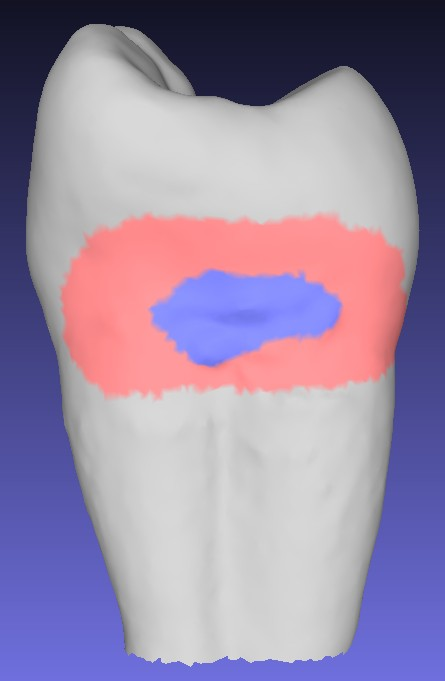
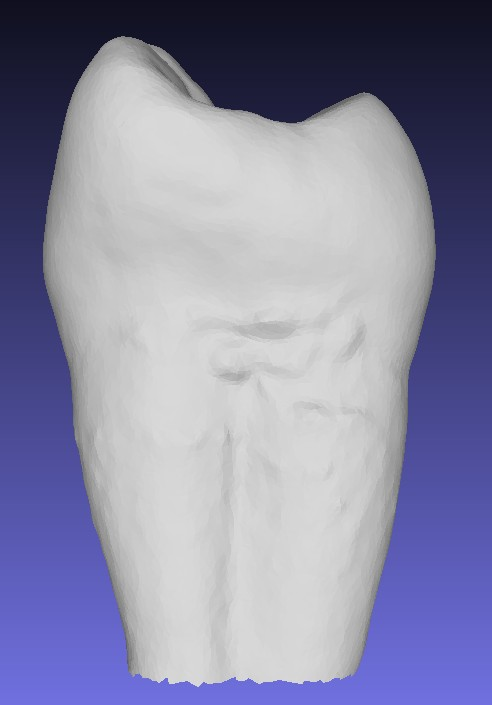
20180908 修改teeth_model顯示偵測區域

diff --git a/DentistDemo/MyForm.cpp b/DentistDemo/MyForm.cpp
@@ -166,6 +166,10 @@ System::Void DentistDemo::MyForm::MyForm_Load(System::Object^ sender, System::Ev
 	tmp_pic_meat = new std::vector<int>;
 	tmp_pic_disease = new std::vector<int>;
 	tmp_display_PC = new Teeth_PC;
+	tmp_Mask_Model = new cv::Mat/*(250, 141, CV_8UC3, cv::Scalar(0, 0, 0))*/;
+	tmp_tooth_M = new cv::Mat;
+	(*tmp_tooth_M) = cv::imread("./image1.jpg");
+	
 	
 	teeth_slice_idx = false;
 	meat_slice_idx = false;
@@ -539,6 +543,8 @@ void DentistDemo::MyForm::clear_PC_buffer() {
 		(*tmp_pic_meat).clear();
 	if ((*tmp_pic_disease).size() != 0);
 		(*tmp_pic_disease).clear();
+	if ((*tmp_Mask_Model).empty() == 0);
+		(*tmp_Mask_Model).release();
 }
 void DentistDemo::MyForm::Full_scan_Click(System::Object^  sender, System::EventArgs^  e) {
 	pin_ptr<int32_t> tmp_deviceID = &deviceID;
@@ -976,7 +982,9 @@ void DentistDemo::MyForm::classify_result() {
 	int tmpIdx;
 	float idt;
 	int control_pic_idx = this->control_pic->Value;
+	//cv::Mat tmp_Mask_Model = cv::Mat(250,141 , CV_8UC3, cv::Scalar(0, 0, 0));
 	Teeth_PC tmp_teeth_PC;
+	(*tmp_Mask_Model) = cv::Mat(250, 141, CV_8UC4, cv::Scalar(0, 0, 0,0));
 	for (int i = 0; i < (*Result_Image).size(); i++) {
 		cv::Mat tmp_img;
 		//cv::resize((*Result_Image)[i], tmp_img, cv::Size(1024, 250), 0, 0, CV_INTER_LINEAR);
@@ -995,6 +1003,10 @@ void DentistDemo::MyForm::classify_result() {
 		
 
 		for (int row = 0; row < tmp_result_img[i].rows; row++) {
+			bool disease_class = false;
+			bool meat_class = false;
+
+
 			for (int col = 50; col < tmp_result_img[i].cols; col++) {
 
 				
@@ -1041,6 +1053,7 @@ void DentistDemo::MyForm::classify_result() {
 				if (tmp_result_img[i].at<uchar>(row, col) == uchar(3)) {
 					Point_3D tmp_point_3D;
 
+					meat_class = true;
 					int tmp_num = i + 60;//x
 					int tmp_row = (row * 250) / 360;//y
 					int tmp_col = (col * 1024) / 480;//z
@@ -1077,6 +1090,7 @@ void DentistDemo::MyForm::classify_result() {
 				if (tmp_result_img[i].at<uchar>(row, col) == uchar(4)) {
 					Point_3D tmp_point_3D;
 
+					disease_class = true;
 					int tmp_num = i + 60;//x
 					int tmp_row = (row * 250) / 360;//y
 					int tmp_col = (col * 1024) / 480;//z
@@ -1111,13 +1125,40 @@ void DentistDemo::MyForm::classify_result() {
 					disease_imgPC->push_back(tmp_point_3D);
 				}
 			}
+			if (meat_class == true) {
+				//std::cout << " meat_class = true\n";
+				int tmp_row = (row * 250) / 360;
+				//std::cout << "row:" << row << "\n";
+				//std::cout << "i:" << i << "\n";
+				
+				(*tmp_Mask_Model).at<cv::Vec4b>(tmp_row, i)[0] = 126;
+				(*tmp_Mask_Model).at<cv::Vec4b>(tmp_row, i)[1] = 126;
+				(*tmp_Mask_Model).at<cv::Vec4b>(tmp_row, i)[2] = 255;
+				(*tmp_Mask_Model).at<cv::Vec4b>(tmp_row, i)[3] = 127;
+				if (disease_class == true) {
+					//std::cout << " disease_class = true\n";
+					(*tmp_Mask_Model).at<cv::Vec4b>(tmp_row, i)[0] = 255;
+					(*tmp_Mask_Model).at<cv::Vec4b>(tmp_row, i)[1] = 0;
+					(*tmp_Mask_Model).at<cv::Vec4b>(tmp_row, i)[2] = 0;
+					(*tmp_Mask_Model).at<cv::Vec4b>(tmp_row, i)[3] = 127;
+				}
+			}
+
+
 		}
+
 		(*tmp_pic_teeth).push_back(teeth_imgPC->size());
 		(*tmp_pic_meat).push_back(meat_imgPC->size());
 		(*tmp_pic_disease).push_back(disease_imgPC->size());
 	}
+	
 
+	//cvtColor((*tmp_Mask_Model).clone(), (*tmp_Mask_Model), CV_BGR2BGRA);
+	cv::resize((*tmp_Mask_Model).clone(), (*tmp_Mask_Model), cv::Size(42, 75), 0, 0, CV_INTER_LINEAR);
 
+	cv::imwrite("mask.png", (*tmp_Mask_Model));
+
+	//tmp_teeth_PC.Model_mask = tmp_Mask_Model;
 	//for (int i = 0; i < (*teeth_imgPC).size(); i++) {
 	//	//std::cout << "teeth_imgPC i = " << i << "\n";
 	//	glManager->read_point(-(double)(*teeth_imgPC)[i].position.x, (double)(*teeth_imgPC)[i].position.y, (double)(*teeth_imgPC)[i].position.z);
@@ -1363,7 +1404,7 @@ void DentistDemo::MyForm::hkoglPanelControl1_Paint(System::Object ^ sender, Syst
 {
 	//glEnable(GL_COLOR_MATERIAL); //允許使用glColor
 
-	glClearColor(0.3f, 0.3f, 0.3f, 1.0f);
+	glClearColor(0.0f, 0.0f, 0.0f, 1.0f);
 	glClear(GL_COLOR_BUFFER_BIT | GL_DEPTH_BUFFER_BIT);
 
 	//Radian thetaR;
@@ -4434,6 +4475,7 @@ void DentistDemo::MyForm::pictureBox1_Paint(System::Object^  sender, System::Win
 	Pen^ RedPen = gcnew Pen(Color::Red, 1.5f);
 	Pen^ BluePen = gcnew Pen(Color::Blue, 1.5f);
 
+
 	int index = this->control_pic->Value;
 	// Draw a line in the PictureBox.
 	g->DrawLine(RedPen, mouse_loc_x + block_size_x, mouse_loc_y + block_size_y, mouse_loc_x - block_size_x, mouse_loc_y + block_size_y);
@@ -4441,9 +4483,20 @@ void DentistDemo::MyForm::pictureBox1_Paint(System::Object^  sender, System::Win
 	g->DrawLine(RedPen, mouse_loc_x - block_size_x, mouse_loc_y - block_size_y, mouse_loc_x + block_size_x, mouse_loc_y - block_size_y);
 	g->DrawLine(RedPen, mouse_loc_x + block_size_x, mouse_loc_y - block_size_y, mouse_loc_x + block_size_x, mouse_loc_y + block_size_y);
 
+	float tmp_origin_x = mouse_loc_x - block_size_x;
+	float tmp_origin_y = mouse_loc_y - block_size_y;
+
+	if ((*tmp_Mask_Model).empty() == 0) {
+		for (int row = 0; row < (*tmp_Mask_Model).rows ; row++) {
+			for (int col = 0; col < (*tmp_Mask_Model).cols; col++) {
+				SolidBrush^ MeatBrush = gcnew SolidBrush(Color::FromArgb((*tmp_Mask_Model).at<cv::Vec4b>(row, col)[3], (*tmp_Mask_Model).at<cv::Vec4b>(row, col)[2], (*tmp_Mask_Model).at<cv::Vec4b>(row, col)[1], (*tmp_Mask_Model).at<cv::Vec4b>(row, col)[0]));
+				g->FillRectangle((Brush^)MeatBrush, (float)(tmp_origin_x+col), (float)(tmp_origin_y+row), 1.0f, 1.0f);
+			}
+		}
+	}
+
 	g->DrawLine(BluePen, (mouse_loc_x - block_size_x) + block_size_x * 2 * ((float)index / 141), mouse_loc_y - block_size_y, (mouse_loc_x - block_size_x) + block_size_x * 2 * ((float)index / 141), mouse_loc_y + block_size_y);
 
-	//std::cout << "paint\n";
 }
 void DentistDemo::MyForm::pictureBox1_MouseDown(System::Object^  sender, System::Windows::Forms::MouseEventArgs^  e) {
 	//Point mouseDownLocation = Point(e->X, e->Y);
@@ -4471,6 +4524,7 @@ void DentistDemo::MyForm::Choose_teeth_SelectedIndexChanged(System::Object^  sen
 
 	// Call the FindStringExact method to find the first 
 	// occurrence in the list.
+	int index = this->control_pic->Value;
 
 	if (Choose_teeth->SelectedIndex == 0) {
 		std::cout << " " << Choose_teeth->SelectedIndex << "\n";
@@ -4478,9 +4532,17 @@ void DentistDemo::MyForm::Choose_teeth_SelectedIndexChanged(System::Object^  sen
 			std::cout << "(*teeth_1).size() != 0";
 			show_Teeth_PC((*teeth_1)[0]);
 			(*tmp_display_PC) = (*teeth_1)[0];
+			(*tmp_Mask_Model) = (*teeth_1)[0].Model_mask;
+
+			glManager->control_pic((*tmp_display_PC).teeth_pic_index[index],
+				(*tmp_display_PC).disease_pic_index[index],
+				(*tmp_display_PC).meat_pic_index[index],
+				(*tmp_display_PC).teeth_imgPC.size(),
+				(*tmp_display_PC).disease_imgPC.size(), meat_alpha);
 		}
 		else {
 			//std::cout << "(*teeth_1).size() == 0";
+			clear_PC_buffer();
 			glManager->Clear_all();
 		}
 		teeth_Model->Image = Image::FromFile("./image1.jpg");
@@ -4493,10 +4555,18 @@ void DentistDemo::MyForm::Choose_teeth_SelectedIndexChanged(System::Object^  sen
 		if ((*teeth_2).size() != 0) {
 			show_Teeth_PC((*teeth_2)[0]);
 			(*tmp_display_PC) = (*teeth_2)[0];
-		}
-		else
-			glManager->Clear_all();
+			(*tmp_Mask_Model) = (*teeth_2)[0].Model_mask;
 
+			glManager->control_pic((*tmp_display_PC).teeth_pic_index[index],
+				(*tmp_display_PC).disease_pic_index[index],
+				(*tmp_display_PC).meat_pic_index[index],
+				(*tmp_display_PC).teeth_imgPC.size(),
+				(*tmp_display_PC).disease_imgPC.size(), meat_alpha);
+		}
+		else {
+			clear_PC_buffer();
+			glManager->Clear_all();
+		}
 		teeth_Model->Image = Image::FromFile("./image2.jpg");
 		teeth_Model->Invalidate();
 		tooth_table->Image = Image::FromFile("./teeth_table2.jpg");
@@ -4507,10 +4577,18 @@ void DentistDemo::MyForm::Choose_teeth_SelectedIndexChanged(System::Object^  sen
 		if ((*teeth_3).size() != 0) {
 			show_Teeth_PC((*teeth_3)[0]);
 			(*tmp_display_PC) = (*teeth_3)[0];
-		}
-		else
-			glManager->Clear_all();
+			(*tmp_Mask_Model) = (*teeth_3)[0].Model_mask;
 
+			glManager->control_pic((*tmp_display_PC).teeth_pic_index[index],
+				(*tmp_display_PC).disease_pic_index[index],
+				(*tmp_display_PC).meat_pic_index[index],
+				(*tmp_display_PC).teeth_imgPC.size(),
+				(*tmp_display_PC).disease_imgPC.size(), meat_alpha);
+		}
+		else {
+			clear_PC_buffer();
+			glManager->Clear_all();
+		}
 		teeth_Model->Image = Image::FromFile("./image3.jpg");
 		teeth_Model->Invalidate();
 		tooth_table->Image = Image::FromFile("./teeth_table3.jpg");
@@ -4521,10 +4599,18 @@ void DentistDemo::MyForm::Choose_teeth_SelectedIndexChanged(System::Object^  sen
 		if ((*teeth_4).size() != 0) {
 			show_Teeth_PC((*teeth_4)[0]);
 			(*tmp_display_PC) = (*teeth_4)[0];
-		}
-		else
-			glManager->Clear_all();
+			(*tmp_Mask_Model) = (*teeth_4)[0].Model_mask;
 
+			glManager->control_pic((*tmp_display_PC).teeth_pic_index[index],
+				(*tmp_display_PC).disease_pic_index[index],
+				(*tmp_display_PC).meat_pic_index[index],
+				(*tmp_display_PC).teeth_imgPC.size(),
+				(*tmp_display_PC).disease_imgPC.size(), meat_alpha);
+		}
+		else {
+			clear_PC_buffer();
+			glManager->Clear_all();
+		}
 		teeth_Model->Image = Image::FromFile("./image4.jpg");
 		teeth_Model->Invalidate();
 		tooth_table->Image = Image::FromFile("./teeth_table4.jpg");
@@ -4535,10 +4621,18 @@ void DentistDemo::MyForm::Choose_teeth_SelectedIndexChanged(System::Object^  sen
 		if ((*teeth_5).size() != 0) {
 			show_Teeth_PC((*teeth_5)[0]);
 			(*tmp_display_PC) = (*teeth_5)[0];
-		}
-		else
-			glManager->Clear_all();
+			(*tmp_Mask_Model) = (*teeth_5)[0].Model_mask;
 
+			glManager->control_pic((*tmp_display_PC).teeth_pic_index[index],
+				(*tmp_display_PC).disease_pic_index[index],
+				(*tmp_display_PC).meat_pic_index[index],
+				(*tmp_display_PC).teeth_imgPC.size(),
+				(*tmp_display_PC).disease_imgPC.size(), meat_alpha);
+		}
+		else {
+			clear_PC_buffer();
+			glManager->Clear_all();
+		}
 		teeth_Model->Image = Image::FromFile("./image5.jpg");
 		teeth_Model->Invalidate();
 		tooth_table->Image = Image::FromFile("./teeth_table5.jpg");
@@ -4633,6 +4727,11 @@ void DentistDemo::MyForm::Test_detect_Click(System::Object^  sender, System::Eve
 	tmp_teeth_PC.result_input = (*Result_Image);
 	classify_result();
 
+	this->control_pic->Enabled = true;
+	int index = this->control_pic->Value;
+
+	tmp_teeth_PC.Model_mask = (*tmp_Mask_Model);
+
 	tmp_teeth_PC.teeth_imgPC = (*teeth_imgPC);
 	tmp_teeth_PC.disease_imgPC = (*disease_imgPC);
 	tmp_teeth_PC.meat_imgPC = (*meat_imgPC);
@@ -4647,6 +4746,13 @@ void DentistDemo::MyForm::Test_detect_Click(System::Object^  sender, System::Eve
 
 		show_Teeth_PC((*teeth_1)[(*teeth_1).size() - 1]);
 		(*tmp_display_PC) = (*teeth_1)[(*teeth_1).size() - 1];
+
+		glManager->control_pic((*tmp_display_PC).teeth_pic_index[index],
+			(*tmp_display_PC).disease_pic_index[index],
+			(*tmp_display_PC).meat_pic_index[index],
+			(*tmp_display_PC).teeth_imgPC.size(),
+			(*tmp_display_PC).disease_imgPC.size(), meat_alpha);
+
 		glManager->Initial_vert();
 
 	}
@@ -4656,6 +4762,13 @@ void DentistDemo::MyForm::Test_detect_Click(System::Object^  sender, System::Eve
 		glManager->Clear_all();
 		show_Teeth_PC((*teeth_2)[(*teeth_2).size() - 1]);
 		(*tmp_display_PC) = (*teeth_2)[(*teeth_2).size() - 1];
+
+		glManager->control_pic((*tmp_display_PC).teeth_pic_index[index],
+			(*tmp_display_PC).disease_pic_index[index],
+			(*tmp_display_PC).meat_pic_index[index],
+			(*tmp_display_PC).teeth_imgPC.size(),
+			(*tmp_display_PC).disease_imgPC.size(), meat_alpha);
+
 		glManager->Initial_vert();
 	}
 	else if (Choose_teeth->SelectedIndex == 2) {
@@ -4665,6 +4778,13 @@ void DentistDemo::MyForm::Test_detect_Click(System::Object^  sender, System::Eve
 
 		show_Teeth_PC((*teeth_3)[(*teeth_3).size() - 1]);
 		(*tmp_display_PC) = (*teeth_3)[(*teeth_3).size() - 1];
+
+		glManager->control_pic((*tmp_display_PC).teeth_pic_index[index],
+			(*tmp_display_PC).disease_pic_index[index],
+			(*tmp_display_PC).meat_pic_index[index],
+			(*tmp_display_PC).teeth_imgPC.size(),
+			(*tmp_display_PC).disease_imgPC.size(), meat_alpha);
+
 		glManager->Initial_vert();
 	}
 	else if (Choose_teeth->SelectedIndex == 3) {
@@ -4674,6 +4794,13 @@ void DentistDemo::MyForm::Test_detect_Click(System::Object^  sender, System::Eve
 
 		show_Teeth_PC((*teeth_4)[(*teeth_4).size() - 1]);
 		(*tmp_display_PC) = (*teeth_4)[(*teeth_4).size() - 1];
+
+		glManager->control_pic((*tmp_display_PC).teeth_pic_index[index],
+			(*tmp_display_PC).disease_pic_index[index],
+			(*tmp_display_PC).meat_pic_index[index],
+			(*tmp_display_PC).teeth_imgPC.size(),
+			(*tmp_display_PC).disease_imgPC.size(), meat_alpha);
+
 		glManager->Initial_vert();
 	}
 	else if (Choose_teeth->SelectedIndex == 4) {
@@ -4683,12 +4810,20 @@ void DentistDemo::MyForm::Test_detect_Click(System::Object^  sender, System::Eve
 
 		show_Teeth_PC((*teeth_5)[(*teeth_5).size() - 1]);
 		(*tmp_display_PC) = (*teeth_5)[(*teeth_5).size() - 1];
+
+		glManager->control_pic((*tmp_display_PC).teeth_pic_index[index],
+			(*tmp_display_PC).disease_pic_index[index],
+			(*tmp_display_PC).meat_pic_index[index],
+			(*tmp_display_PC).teeth_imgPC.size(),
+			(*tmp_display_PC).disease_imgPC.size(), meat_alpha);
+
 		glManager->Initial_vert();
 	}
 
 
-	this->control_pic->Enabled = true;
-	ShowImage(0);
+	
+	ShowImage(index);
+	teeth_Model->Invalidate();
 	/////////////////////////////////////// TEST
 }
 

diff --git a/DentistDemo/MyForm.h b/DentistDemo/MyForm.h
@@ -89,6 +89,7 @@ struct Teeth_PC
 	std::vector<int> teeth_pic_index;
 	std::vector<int> meat_pic_index;
 	std::vector<int> disease_pic_index;
+	cv::Mat Model_mask;
 };
 namespace DentistDemo 
 {
@@ -998,6 +999,8 @@ namespace DentistDemo
 		float mouse_loc_x, mouse_loc_y, block_size_x, color_idt, block_size_y;
 		bool pic_mouse_move, teeth_slice_idx, meat_slice_idx, disease_slice_idx;
 		Vector3 *slice_p1, *slice_p2, *slice_p3, *slice_p4;
+		cv::Mat *tmp_Mask_Model;
+		cv::Mat *tmp_tooth_M;
 
 		// Test
 		int indexA = 0;
